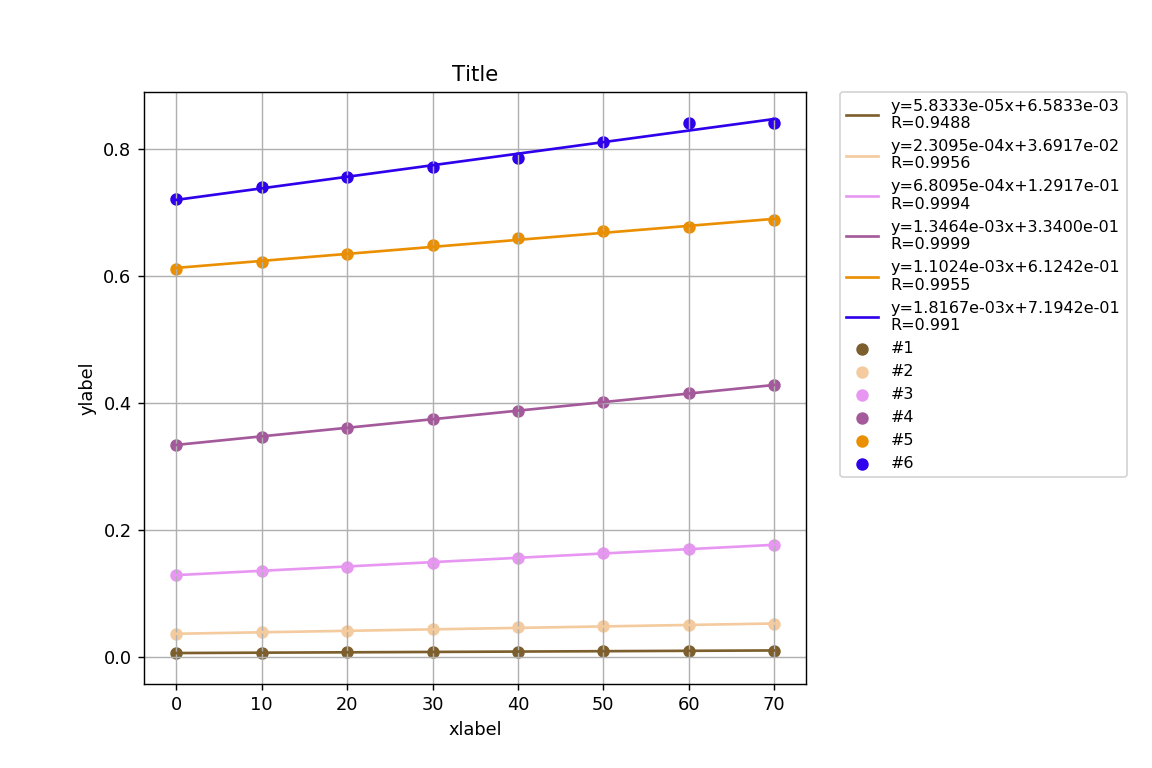
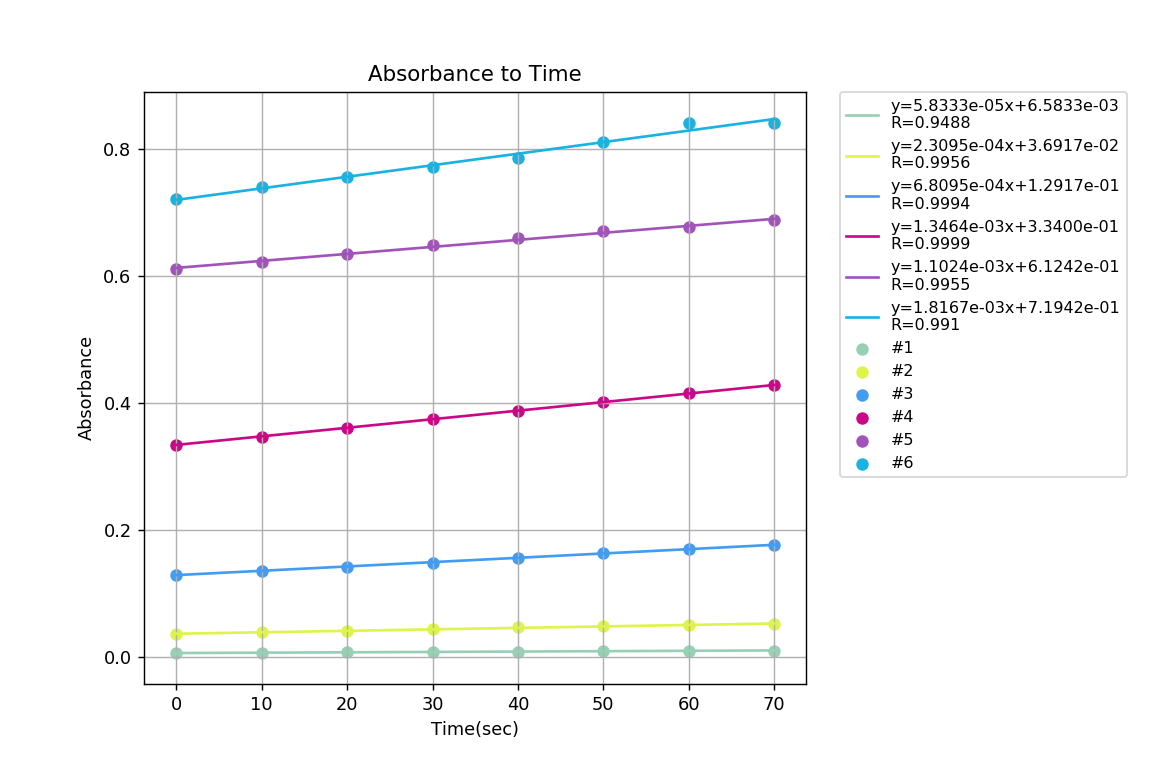
今は勝手に10**6倍してます

diff --git a/replace_kaleida.py b/replace_kaleida.py
@@ -24,10 +24,38 @@ def get_array_from_xlsx(path):
         data.append(array)
     return data
 
+class Plot_data:
+    def __init__(self):
+        self.v_max = None
+        self.k_cat = None
+        self.k_m = None
+        self.k2 = None
+
+def plot_and_save(args,x,y):
+    import matplotlib.pyplot as plt
+    import plot_master2 as pm2
+
+    x = pm2.Data(x)
+    y = ["v"] + list(y)
+    y = pm2.Data(y)
+    ys = [y]
+    plt.ylim(min(y.values),max(y.values))
+    graph = pm2.Graph_master(args)
+    graph.make_graph(x,ys)
+    plt.savefig(graph.output_path)
+    data = Plot_data()
+    for y in ys:
+        data.v_max = y.fit_values[0]
+        data.k_m = y.fit_values[1]
+        data.k_cat = data.v_max / (4.0*10**-9)
+        data.k2 = data.k_cat / data.k_m
+    return data
+
 def main():
     path = get_file_name()
     data = get_array_from_xlsx(path)
 
+    import numpy as np
     import matplotlib.pyplot as plt
     import plot_master2 as pm2
     import sys
@@ -43,20 +71,58 @@ def main():
         else:
             box.append(array)
 
-    title = 'Title'
-    xlabel = 'xlabel'
-    ylabel = 'ylabel'
+    data_array = []
+
+    # 吸光度のプロットに必要な変数
+    title = 'Absorbance to Time'
+    xlabel = 'Time(sec)'
+    ylabel = 'Absorbance'
     output_path = 'day3/graph1'
     sig_dig = '4'
     args = [title,xlabel,ylabel,output_path,sig_dig]
 
+    # 吸光度の変化をプロットする
     graph = pm2.Graph_master(args)
     graph.make_graph(x,box)
     plt.savefig(graph.output_path)
 
+    # 反応初速度を求める
+    v0 = []
     for i in box:
-        print(i.fit_values)
+        if i.fit_values.size == 1:
+            v0.append(i.fit_values)
+        else:
+            v0.append(i.fit_values[0])
+    v0 = np.array(v0)
+    e492 = 85000*10**(-6)
+    v0 /= e492
 
+    # ６点でミカエリスメンテン
+    # 変数の定義
+    title = 'Michaelis Menten Plot (6 dots)'
+    xlabel = 'Substrate concentration (μM)'
+    ylabel = 'Reaction rate (M/sec)'
+    output_path = 'day3/graph2'
+    sig_dig = '4'
+    args = [title,xlabel,ylabel,output_path,sig_dig]
+
+    # プロット
+    data_array.append(plot_and_save(args,array_s,v0))
+
+    # 4点でミカエリスメンテン
+    # 変数の定義
+    title = 'Michaelis Menten Plot (4 dots)'
+    xlabel = 'Substrate concentration (μM)'
+    ylabel = 'Reaction rate (M/sec)'
+    output_path = 'day3/graph3'
+    sig_dig = '4'
+    args = [title,xlabel,ylabel,output_path,sig_dig]
+
+
+    print("v0",v0)
+    print("array_s",array_s)
+    # プロット
+    data_array.append(plot_and_save(args,array_s[:5],v0[:4]))
 
 
 if __name__ == "__main__":
